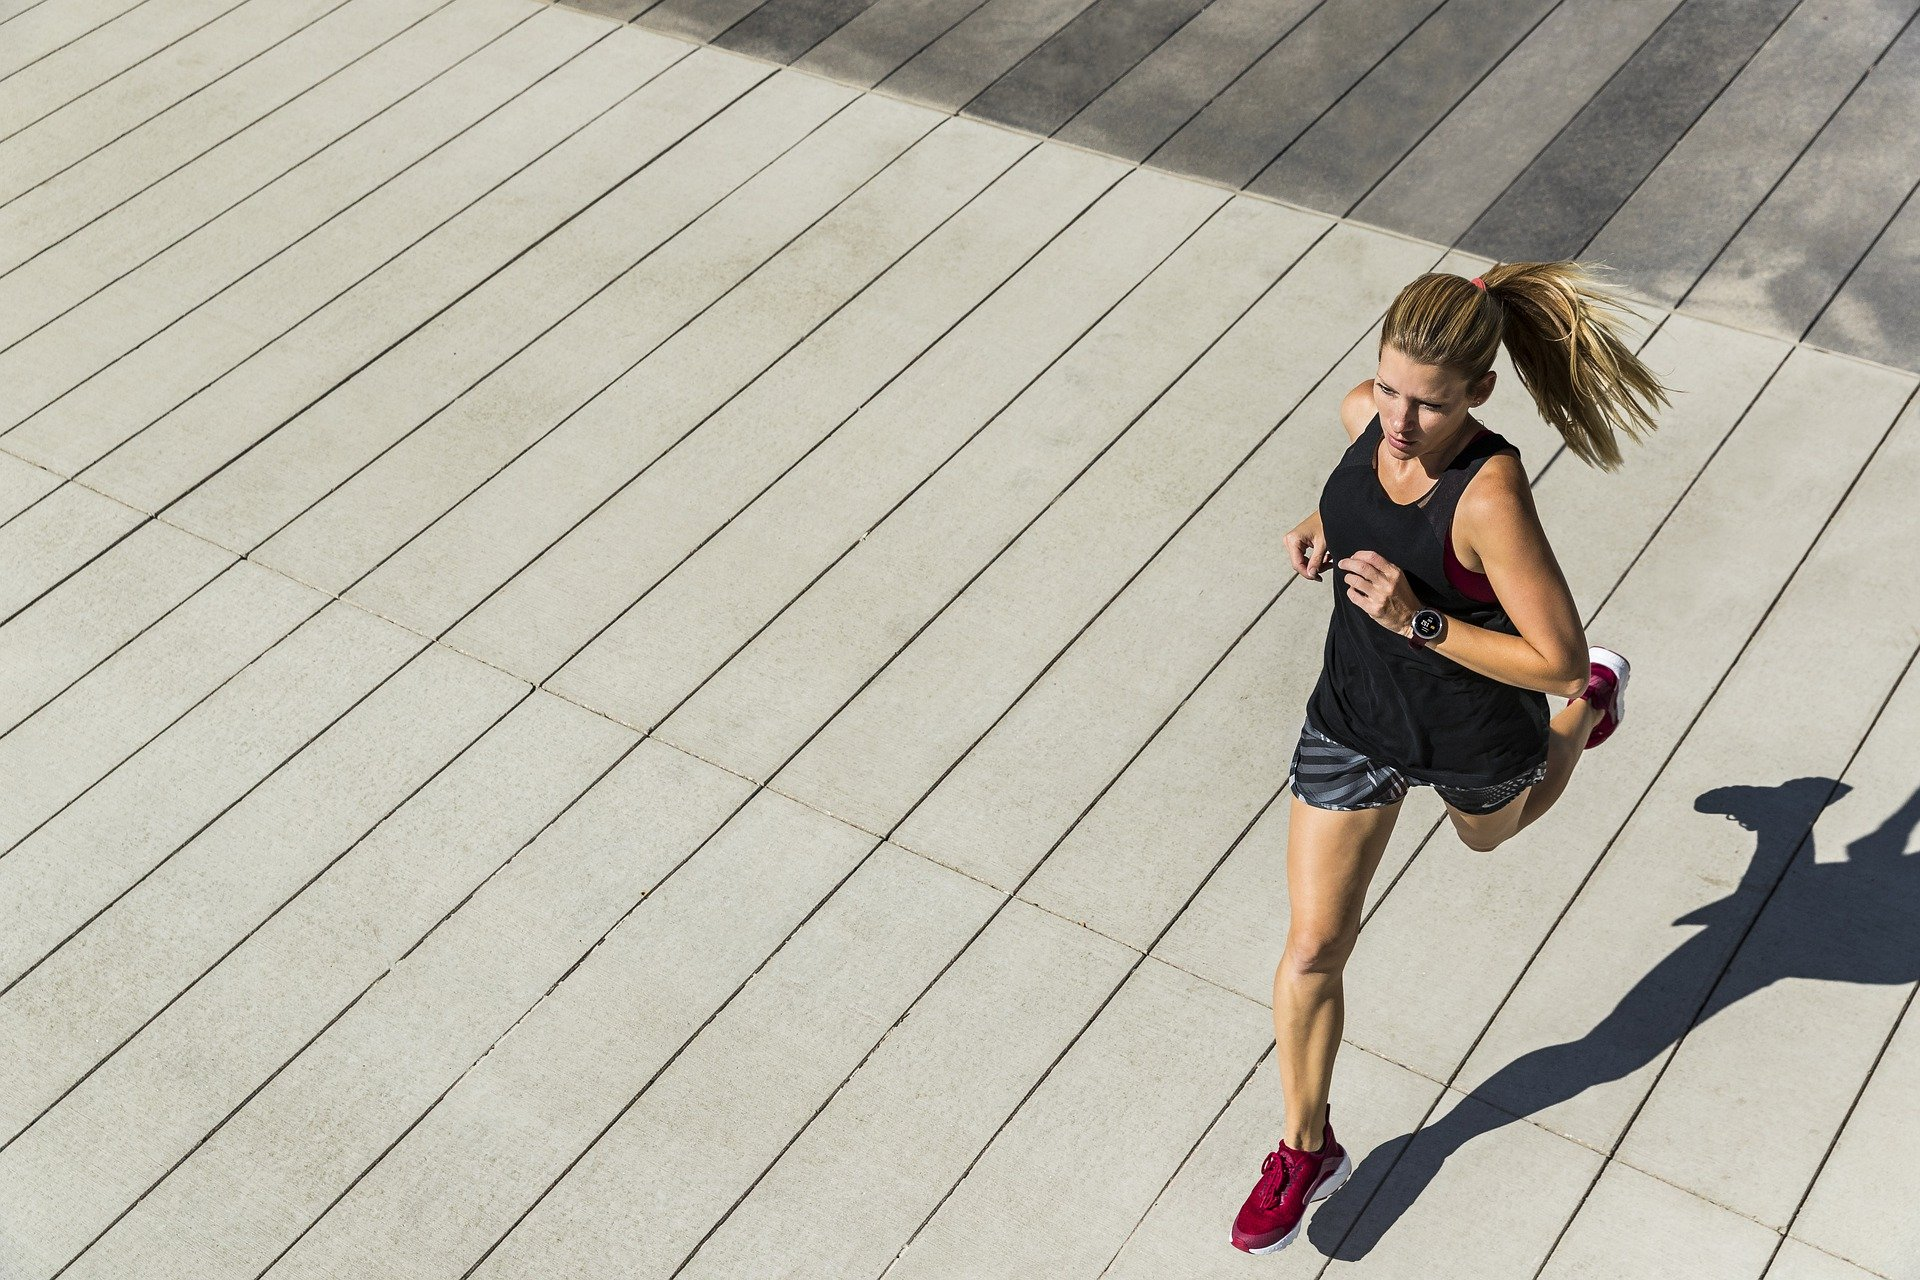
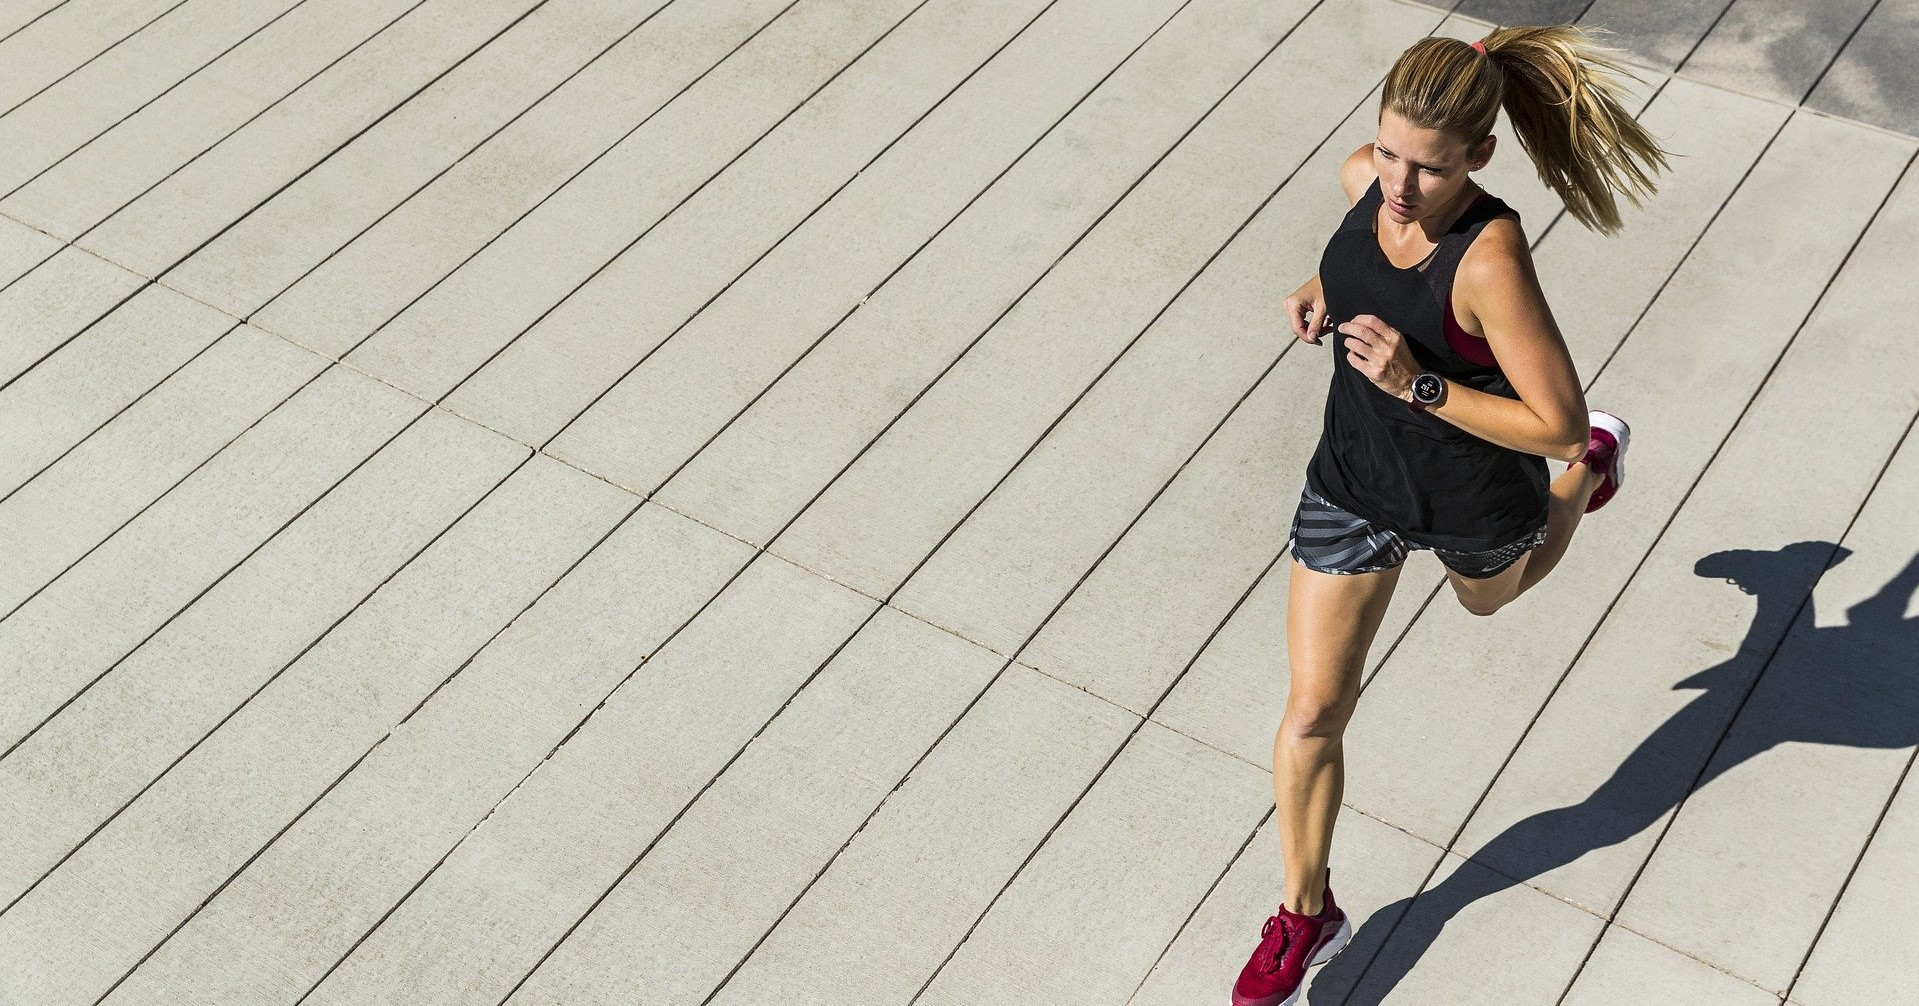
corrigiendo mi entrega final

diff --git a/index.html b/index.html
@@ -25,7 +25,7 @@
             <div class="header__container"> 
                   <!-- empieza menú de navegación-->
                   <nav class="navbar navbar-expand-lg navbar-light bg-light">
-                    <img src="images/logo2.jpg" alt="logo" class="logo" width="35px">
+                    <img src="images/logo2.jpg" alt="logo" class="logo" width="60px">
                     <button class="navbar-toggler" type="button" data-bs-toggle="collapse" data-bs-target="#navbarSupportedContent" aria-controls="navbarSupportedContent" aria-expanded="false" aria-label="Toggle navigation">
                     <span class="navbar-toggler-icon"></span>
                     </button>
@@ -59,7 +59,7 @@
 
                  <!-- empieza el titulo -->
                 <h1 class="header__name">Carolina Gullón</h1>
-                <h2 class="encabezado">kinesiología <span class="fisiatria"> y fisiatría</span></h2>
+                <h2 class="encabezado">Kinesiología <span class="fisiatria"> y Fisiatría</span></h2>
                 
                 <div id="carouselExampleDark" class="carousel carousel-dark slide" data-bs-ride="carousel">
                     <div class="carousel-indicators">
@@ -71,22 +71,22 @@
                       <div class="carousel-item active" data-bs-interval="10000">
                         <img src="images/woman-567021_1920.jpg" class="d-block w-100" alt="terapia-manual">
                         <div class="carousel-caption d-none d-md-block">
-                          <h5><strong>RPG®</strong></h5><br>
+                          <h5><strong>RPG®</strong></h5>
                           <p><strong>Reeducación Postural Global - terapia manual personalizada.</strong></p>
                         </div>
                       </div>
                       <div class="carousel-item" data-bs-interval="2000">
                         <img src="images/yoga-2959226_1920.jpg" class="d-block w-100" alt="chica-estirando">
                         <div class="carousel-caption d-none d-md-block">
-                          <h5><strong>STRETCHING & MOBILITY</strong></h5><br>
+                          <h5><strong>STRETCHING & MOBILITY</strong></h5>
                           <p><strong>Clases individuales y/o grupales de flexibilidad, movilidad y estiramiento.</strong></p>
                         </div>
                       </div>
                       <div class="carousel-item">
                         <img src="images/running-6252827_1920.jpg" class="d-block w-100" alt="chica-corriendo">
                         <div class="carousel-caption d-none d-md-block">
-                          <h5><strong>KINESIOLOGÍA DEPORTIVA</strong></h5><br>
-                          <p><strong>Prevención y rehabilitación de lesiones <br> deportivas.</strong></p>
+                          <h5><strong>KINESIOLOGÍA DEPORTIVA</strong></h5>
+                          <p><strong>Prevención y rehabilitación de lesiones deportivas.</strong></p>
                         </div>
                       </div>
                     </div>

diff --git a/css/estilos.css b/css/estilos.css
@@ -6,13 +6,9 @@
 /*color del fondo*/
 * {
   margin: 0;
-  padding: 0;
-  box-sizing: border-box; }
+  padding: 0; }
 
-/* alineacion y margin al body */
 body {
-  margin-left: 10px;
-  margin-right: 10px;
   text-align: center; }
 
 /*estilo a botones */
@@ -41,15 +37,12 @@ body {
   font-size: 1rem;
   padding: 2rem; }
 
-.btn-contacto {
+.btn-group {
   font-size: 1rem;
-  color: white;
   font-family: "Montserrat", sans-serif;
   font-weight: bolder;
   height: 60px;
   width: 120px;
-  background-color: #7a7265;
-  text-align: center;
   margin-left: 25px; }
 
 /*estilos generales a- i etc*/
@@ -82,8 +75,10 @@ i {
   width: 100%; }
 
 ul.navbar-nav.me-auto.mb-2.mb-lg-0 {
-  align-items: center;
-  background-color: #faf3ef; }
+  align-items: center; }
+
+.carousel-inner {
+  height: 600px; }
 
 /* Termina estilos al header */
 /* estilo general a los h2, h3 y h4 */
@@ -92,11 +87,10 @@ h2 {
   font-size: 25px;
   font-family: "Montserrat", sans-serif;
   font-weight: bolder;
-  margin-top: 40px;
   padding: 15px 15px;
-  width: 200%/2;
   text-align: center;
-  background-color: #c0b7b1; }
+  background-color: #c0b7b1;
+  margin: 0; }
 
 h3 {
   color: #433e3f;
@@ -167,7 +161,7 @@ p {
 .sectionUno__form-academica {
   display: flex;
   flex-direction: column;
-  align-items: center;
+  text-align: left;
   justify-content: space-evenly;
   font-family: "Montserrat", sans-serif;
   font-size: 22px;
@@ -176,23 +170,23 @@ p {
 .sectionUno__titulosQuien {
   display: flex;
   flex-direction: column;
-  align-items: center;
-  justify-content: center;
   margin-top: 40px; }
 
 .sectionUno__nombreQuienSoy {
   color: #acb622;
   font-size: 25px;
   font-style: oblique;
-  font-weight: bolder; }
+  font-weight: bolder;
+  text-align: left;
+  margin-left: 35px; }
 
 .sectionUno__formDos {
   font-size: 30px;
-  margin: 15px 0; }
+  margin: 15px 35px; }
 
 .fotoCuatro {
-  border-radius: 200px;
-  width: 300px; }
+  width: 350px;
+  margin: 0; }
 
 /*termina estilo a la section de sobre mi */
 /*estilo seccion novedades */
@@ -333,14 +327,13 @@ a.noves {
     margin-top: 20px; }
   .header__container .fisiatria {
     color: #433e3f; }
-  .header__container #navbarSupportedContent {
-    background-color: #faf3ef; }
-  .header__container nav {
+  .header__container .navbar {
     position: fixed;
-    align-items: center;
+    align-items: right;
     width: 100%;
-    background-color: #faf3ef; }
-    .header__container nav .dropdown-menu {
+    padding: 10px;
+    z-index: 1000; }
+    .header__container .navbar .dropdown-menu {
       background-color: #faf3ef; }
   .header__container a {
     display: flex;
@@ -361,7 +354,7 @@ h4 .main__hijoFlex {
 
 ul.nosotros li {
   list-style: none;
-  text-align: center;
+  text-align: left;
   font-size: 15px;
   display: block; }
 
@@ -396,7 +389,6 @@ ul li {
   background-color: #acb622;
   padding: 30px; }
   .footer .contenedorFooter .social-icons li {
-    margin-bottom: 20px;
     text-decoration: none;
     font-family: "Montserrat", sans-serif;
     font-weight: bolder;

diff --git a/scss/_tipografia.scss b/scss/_tipografia.scss
@@ -1,12 +1,8 @@
 * {
     margin: 0;
     padding: 0;
-    box-sizing: border-box;
 }
-/* alineacion y margin al body */
 body {
-    margin-left: 10px;
-    margin-right: 10px;
     text-align: center;
 }
 /*estilo a botones */
@@ -35,15 +31,12 @@ body {
     font-size: 1rem;
     padding: 2rem;
 }
-.btn-contacto {
+.btn-group {
     font-size: 1rem;
-    color: white;
     font-family:$fuente;
     font-weight: bolder;
     height:60px;
     width: 120px;
-    background-color: $color-grey;
-    text-align:center;
     margin-left: 25px;
 }
 
@@ -79,7 +72,9 @@ i {
 }
 ul.navbar-nav.me-auto.mb-2.mb-lg-0 {
     align-items: center;
-    background-color: $gris-clarito;
+}
+.carousel-inner {
+    height: 600px;
 }
 /* Termina estilos al header */
 
@@ -89,11 +84,10 @@ h2 {
     font-size: 12.5px*2;
     font-family: $fuente;
     font-weight:bolder;
-    margin-top: 40px;
     padding:15px 15px;
-    width: 200%/2;
     text-align: center;
     background-color: $color-fondo;
+    margin: 0;
 }
 
 h3 {
@@ -171,7 +165,7 @@ p {
 .sectionUno__form-academica {
     display: flex; 
     flex-direction: column;
-    align-items: center;    
+    text-align: left;    
     justify-content: space-evenly;
     font-family:$fuente;
     font-size: 22px;
@@ -180,8 +174,6 @@ p {
 .sectionUno__titulosQuien {
     display: flex;
     flex-direction: column;
-    align-items: center;
-    justify-content: center;
     margin-top: 40px;
 }
 .sectionUno__nombreQuienSoy {
@@ -189,14 +181,17 @@ p {
     font-size: 25px;
     font-style: oblique;
     font-weight: bolder;
+    text-align: left;
+    margin-left: 35px;
 }
 .sectionUno__formDos {
     font-size: 30px;
-    margin: 15px 0;
+    margin: 15px 35px;
 }
 .fotoCuatro {
-    border-radius: 200px;
-    width: 300px; 
+    width: 350px;
+    margin: 0;
+
 }
 /*termina estilo a la section de sobre mi */
 

diff --git a/contacto.html b/contacto.html
@@ -114,8 +114,8 @@
                     <label for="floatingTextarea2">Comentarios</label>
                   </div><br><br>
 
-                  <button type="submit" class="btn-contacto">Enviar</button>
-                  <button type="reset" class="btn-contacto">Borrar</button>
+                  <button type="submit" class="btn-group">Enviar</button>
+                  <button type="reset" class="btn-group">Borrar</button>
               </form>
 
         <!-- Empieza sección testimonios de pacientes -->
@@ -126,9 +126,9 @@
                   <textarea name="testimonios" id="testimonios" cols="120" rows="10">
                   </textarea>
               </p>
-              <div class="boton">
-                  <button type="button" class="btn-contacto">Enviar</button>
-              </div>
+              <div class="btn-group">
+                <button type="button" class="btn btn-light mx-auto">Enviar</button>
+            </div>
               
           </section>
       </div>  

diff --git a/scss/_anidacion.scss b/scss/_anidacion.scss
@@ -11,14 +11,12 @@
     .fisiatria {
         color: $color-greyDos;
     }
-    #navbarSupportedContent{
-        background-color: $gris-clarito;
-    }
-    nav {
+    .navbar {
         position:fixed;
-        align-items:center;
+        align-items:right;
         width:100%;
-        background-color: $gris-clarito;
+        padding:10px;
+        z-index: 1000;
         .dropdown-menu {
             background-color: $gris-clarito;
         }
@@ -50,7 +48,7 @@ h4 {
 ul.nosotros {
     li {
         list-style: none;
-        text-align: center;
+        text-align:left;
         font-size: 15px;
         display: block;
     }
@@ -100,7 +98,6 @@ ul {
         padding: 30px;
             .social-icons {
                 li {
-                    margin-bottom: 20px;
                     text-decoration: none;
                     font-family: $fuente;
                     font-weight: bolder;
